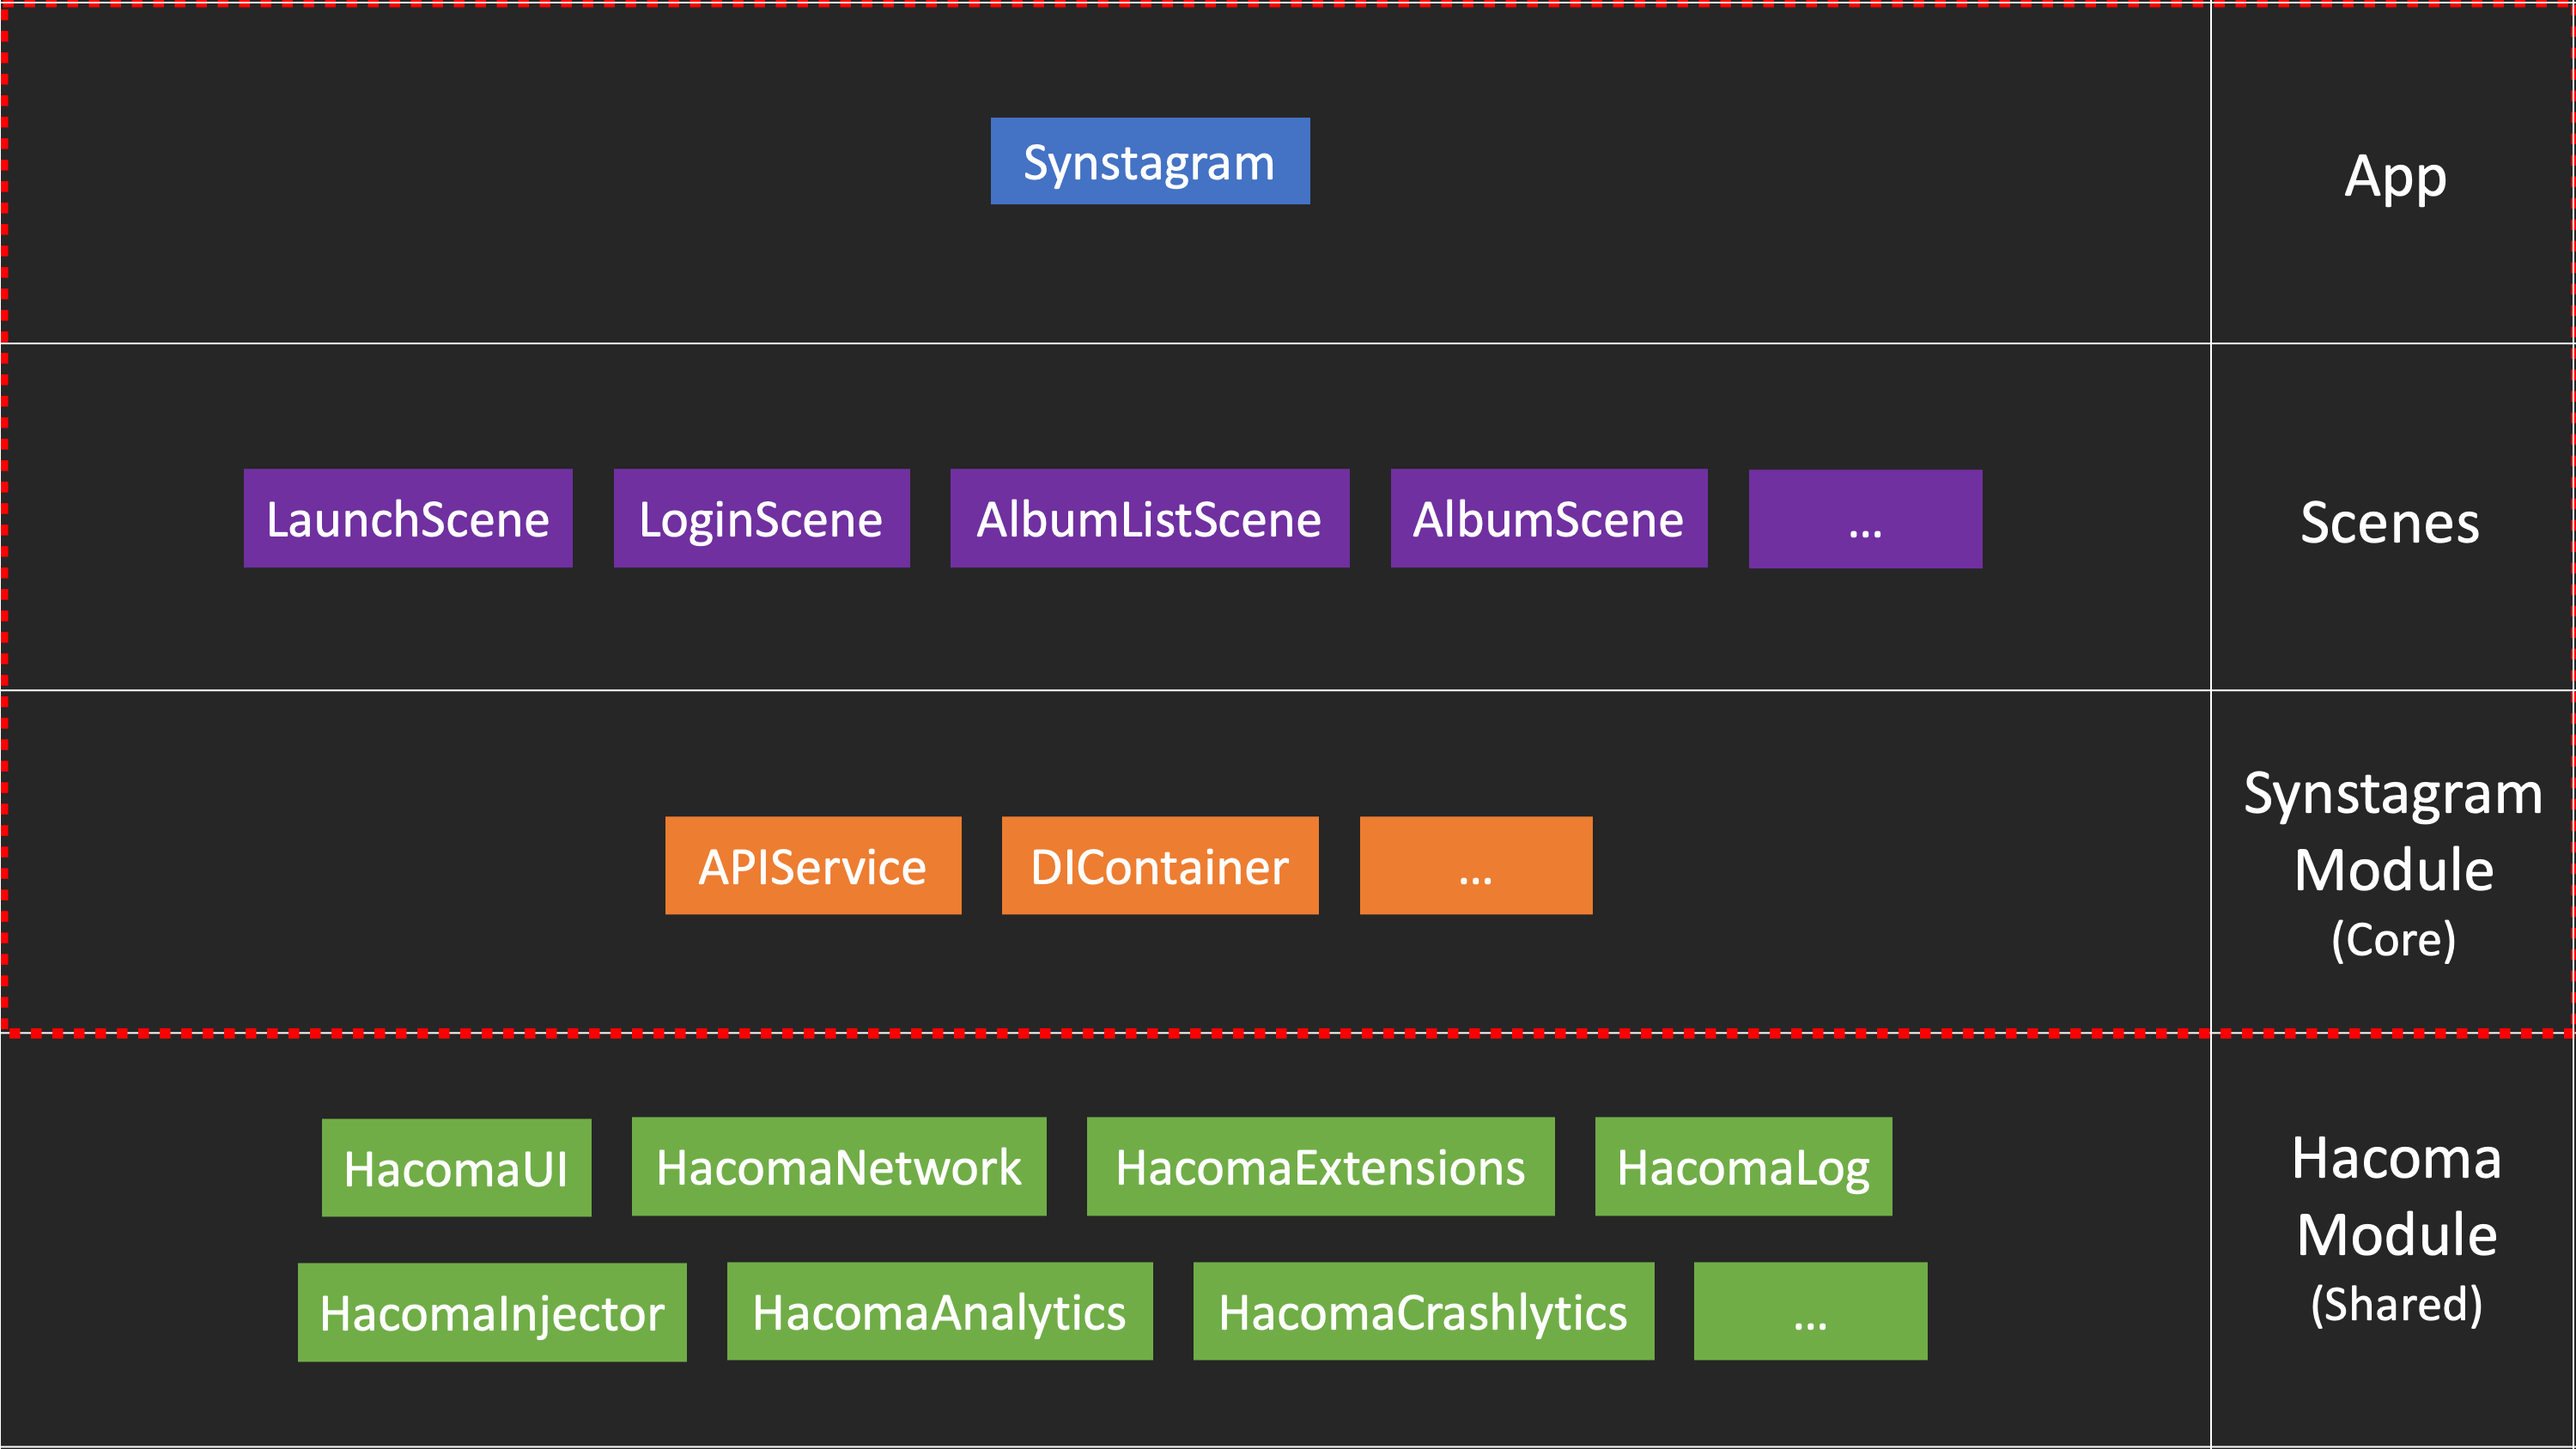
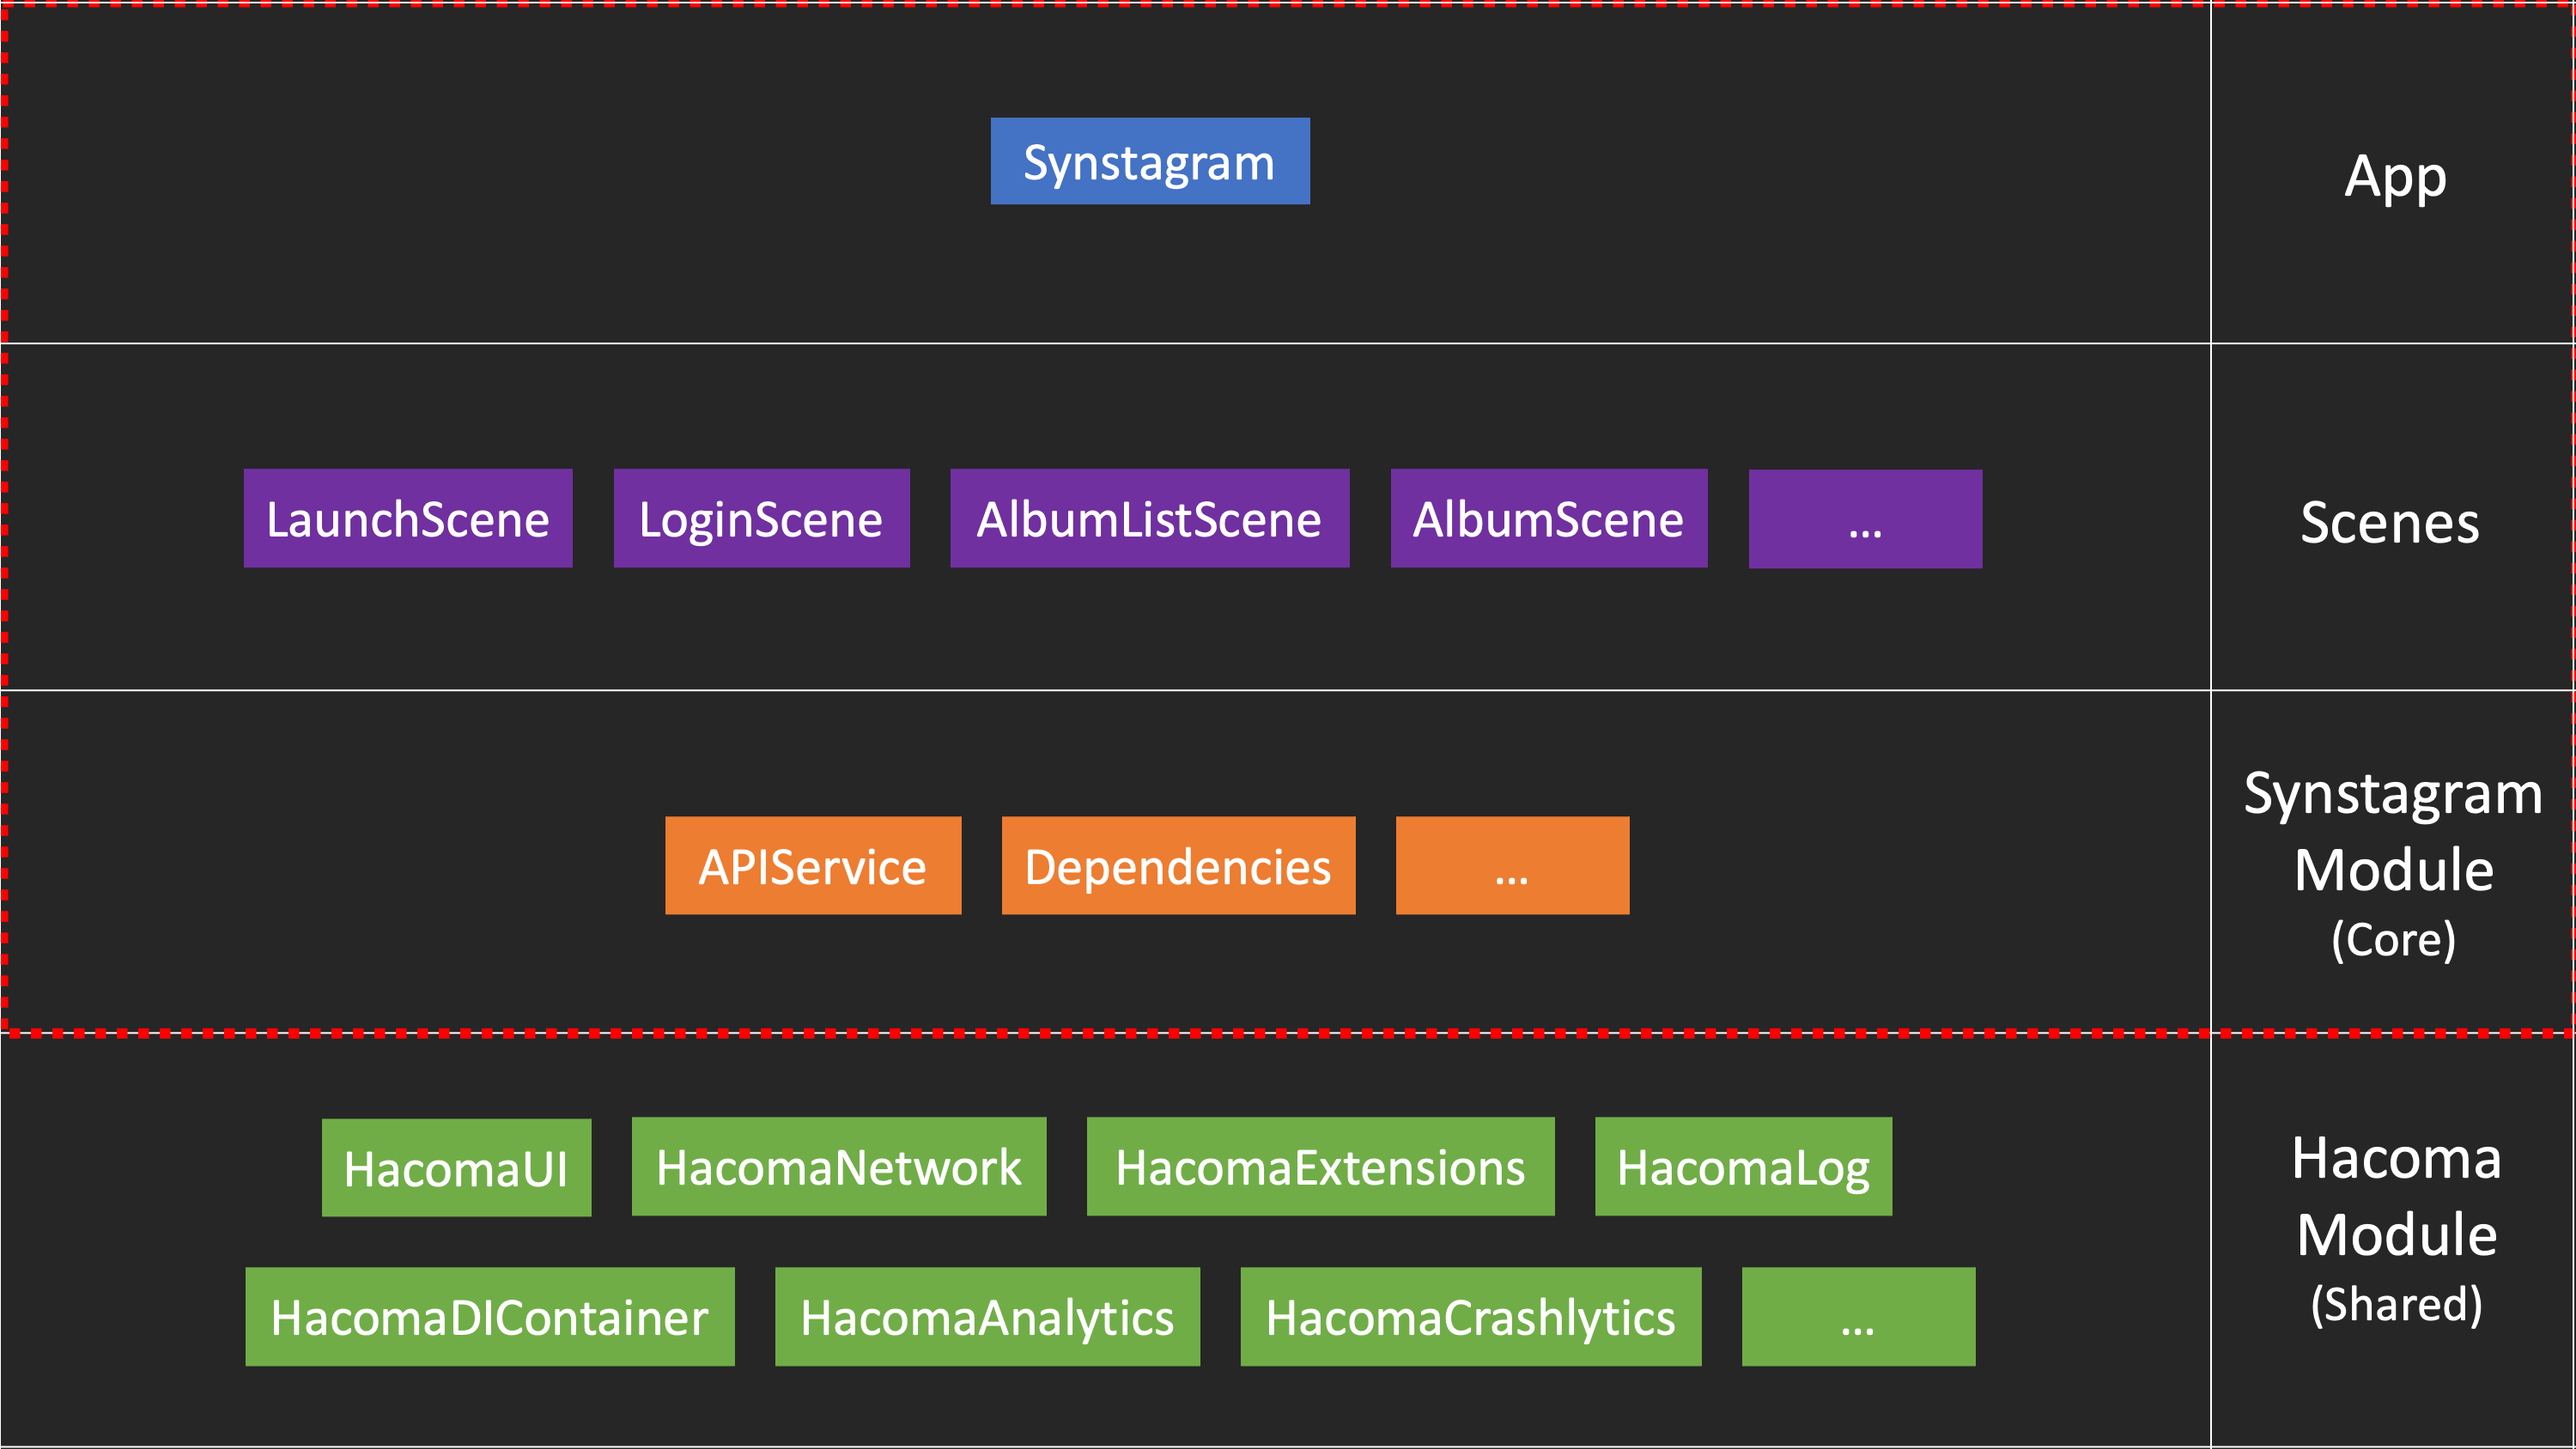
chore: Update README.md

Changed region(s): [[0.093, 0.8626, 0.775, 0.955], [0.403, 0.5545, 0.558, 0.6469], [0.62, 0.5545, 0.651, 0.6469]]

diff --git a/README.md b/README.md
@@ -20,10 +20,10 @@ User client developed using all modules
 Smallest screen unit that makes up the app and adopts CleanSwift's VIP architecture pattern
 
 ### SynstagramModule
-Modules created using the HacomaModule are essential modules for developing Scenes or App
+Modules created using the HacomaModule are essential modules for developing scenes or app
 
 ### HacomaModule
-Modules such as network, log, and extensions needed to develop iOS apps as well as the Synstagram
+Modules such as network, log, and extensions needed to develop iOS apps as well as the synstagram
 
 ## Repositories
 
@@ -35,7 +35,7 @@ Modules such as network, log, and extensions needed to develop iOS apps as well 
 
 ### SynstagramModule
 - [APIService](https://github.com/hacoma/Synstagram-APIService)
-- [Injectable](https://github.com/hacoma/Synstagram-Injectable)
+- [Dependencies](https://github.com/hacoma/Synstagram-Dependencies)
 
 
 ### HacomaModule
